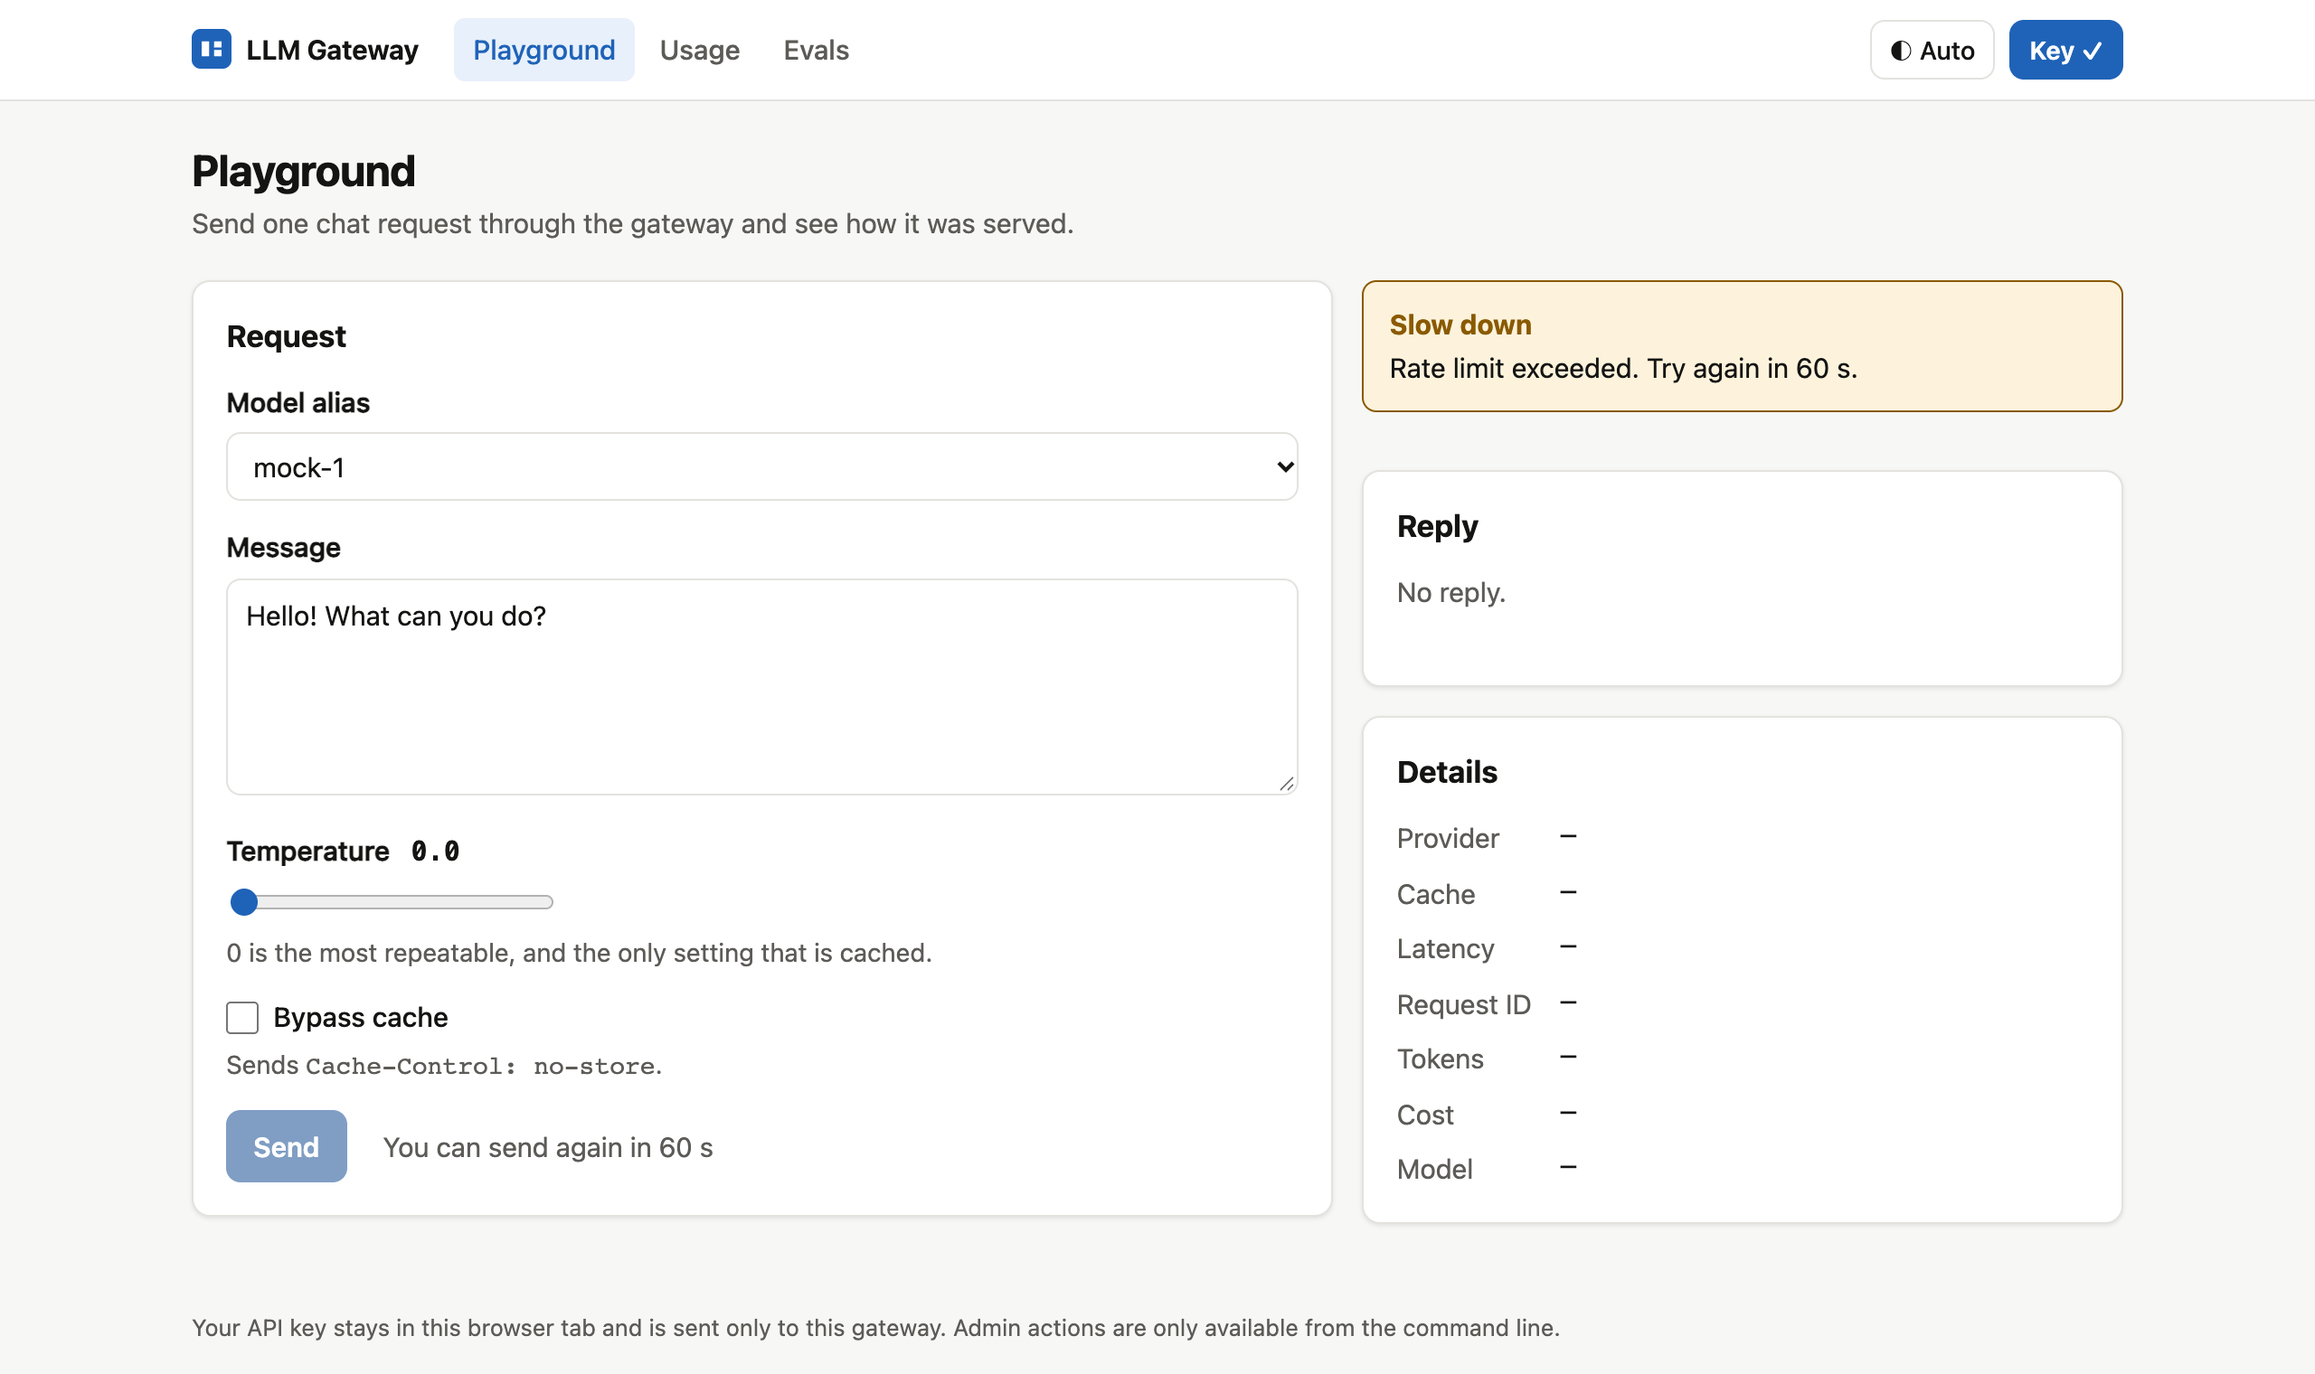
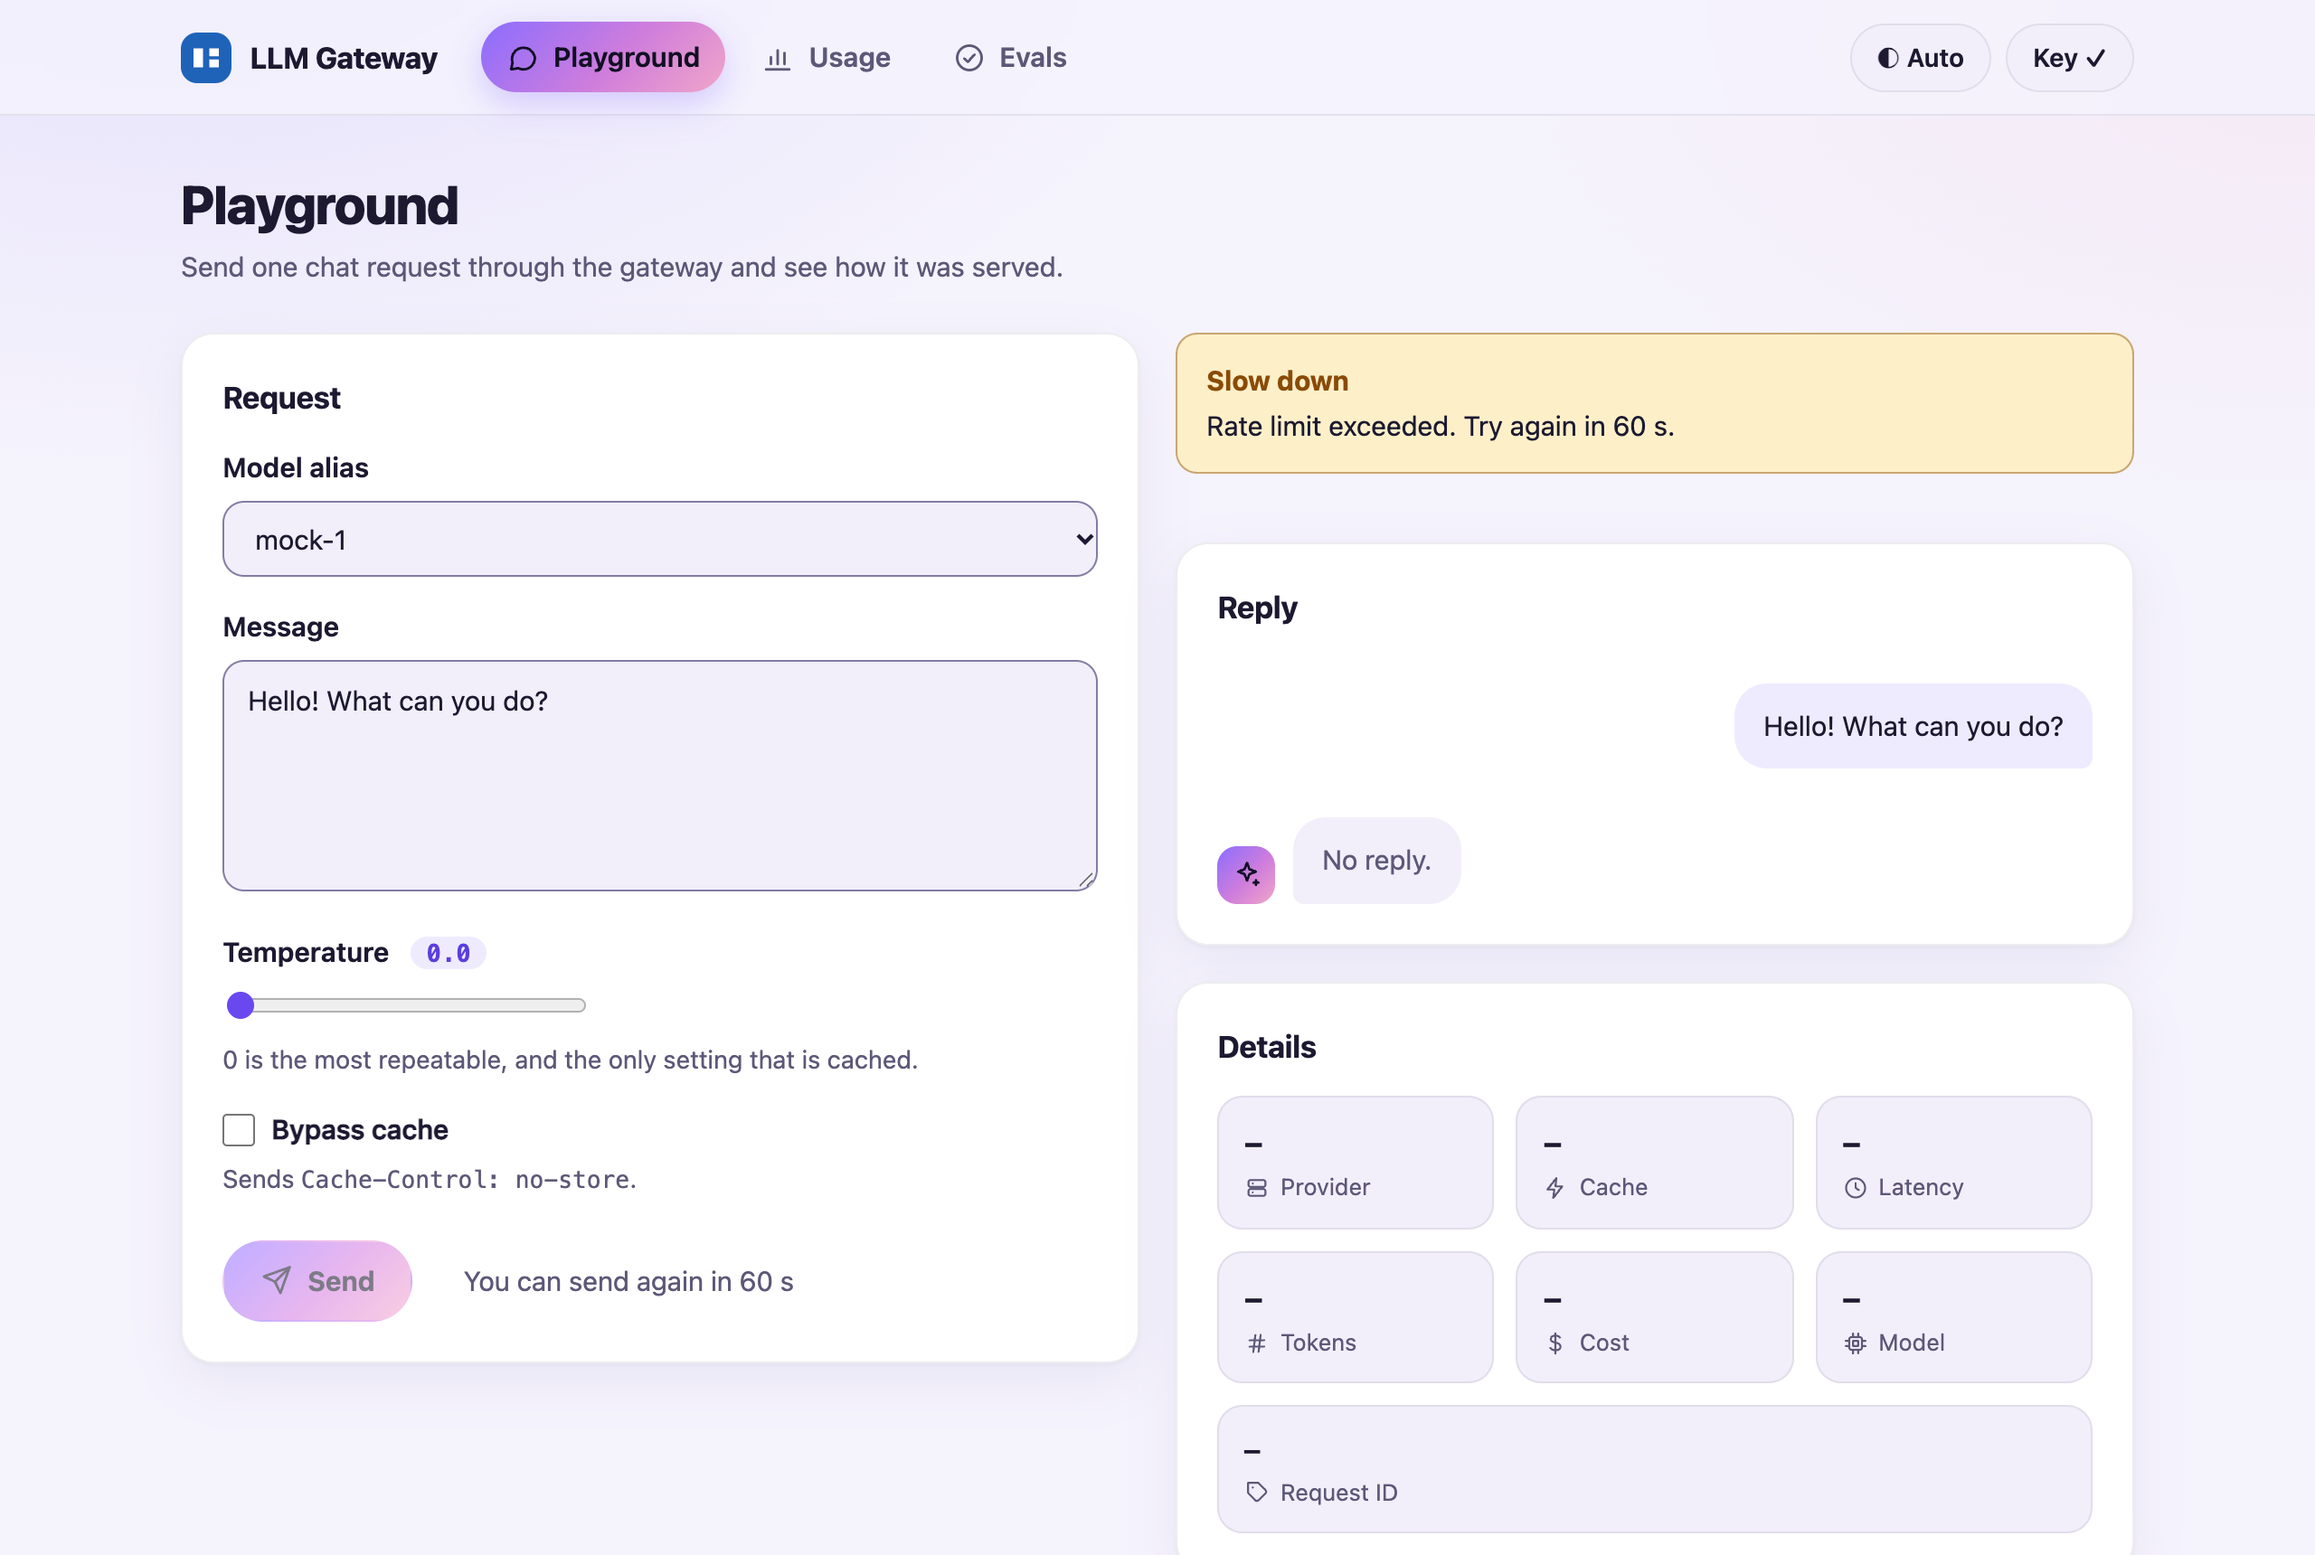
docs(ui): new screenshots and a note on the refreshed design
The screenshots in docs/ui/ (same file names, so README links are unchanged)
show the new theme, taken in Chrome with the Mock provider. The Web UI
section describes the dark-first design, the WCAG AA check and the phone
layout.

diff --git a/README.md b/README.md
@@ -234,7 +234,7 @@ The gateway serves a small web UI at http://localhost:8000/ui. Paste an API key 
 
 More in [docs/ui/](docs/ui/): the dark Playground, the light Usage page, the 429 state, and phone layouts.
 
-It is plain HTML, CSS and a little JavaScript served by FastAPI, with no build step and nothing loaded from another site. Light and dark themes follow the system (or the toggle), the layout works down to phone width, every control has a label, and focus is always visible.
+It is plain HTML, CSS and a little JavaScript served by FastAPI, with no build step and nothing loaded from another site (system fonts, inline SVG icons). The design is dark first, navy-indigo with a violet-to-pink accent, with a matching light theme; both follow the system or the toggle. Every text, badge and control colour meets WCAG AA in both themes (a test checks the colour tokens), animations respect `prefers-reduced-motion`, every control has a label, and focus is always visible. On phones the navigation becomes a bottom bar and tables become labelled cards.
 
 **Security**
 
